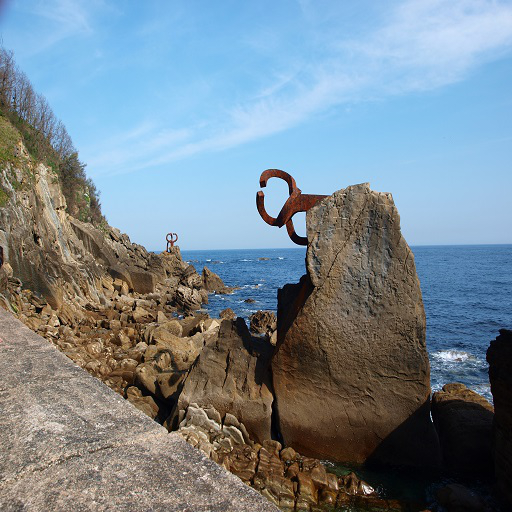
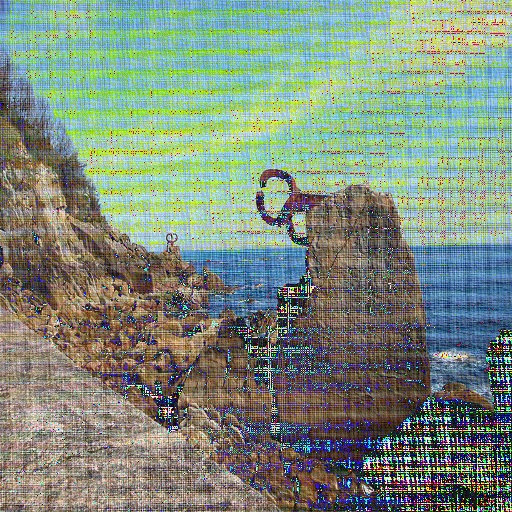
Implemented move blurring, tested it and used wiener filter

diff --git a/main.py b/main.py
@@ -15,13 +15,13 @@ def main():
     im = plb.imread("P1012538.JPG")
 
     #Computing PSF
-    h = convolves.gaussian(5, 11, 11)
+    h = convolves.motion_blur(20, 45)
 
     #Convolve images
     con=convolves.convolution_and_noise_rgb(im,h, np.zeros((2,2)))
 
     #Deblurring
-    filt = filters.inverse_filter_rgb(con, h)
+    filt = filters.wiener_filter_rgb(con, h)
 
     #Show images
     plt.figure()
@@ -41,6 +41,15 @@ def main():
 
     #Saving deblurred images
     plt.imsave("inverse_filter/P1012538_inverse.jpg", np.uint8(filt))
-
+def test():
+    h1=convolves.motion_blur(4, 0)
+    h2=convolves.motion_blur(4,45)
+    h3=convolves.motion_blur(4,90)
+    print 'h1='
+    print h1
+    print 'h2='
+    print h2
+    print 'h3='
+    print h3
 if __name__ == "__main__":
-    main()
+   main()

diff --git a/convolves.py b/convolves.py
@@ -30,9 +30,20 @@ def gaussian(sigma,n,m):
     f=np.array([[gauss(i,j,sigma) for j in range (-(m-1)//2, (m+1)//2)] for i in range(-(n-1)//2, (n+1)//2)])
     f = f / np.sum(f)
     return f
-
-def motion_blur(len, deg):
-    print 'TODO!!!'
+#ang can be only 0, 45 or 90
+def motion_blur(len, ang):
+    result=np.zeros((len+len-1, len+len-1), dtype=float)
+    if(ang==0):
+        for i in range(len-1, len+len-1):
+            result[len-1, i]=1.0
+    elif (ang==45):
+        for i in range(len-1, len+len-1):
+            result[len+len-2-i, i]=1.0
+    elif (ang==90):
+        for i in range(0, len):
+            result[i, len-1]=1.0
+    result/=np.sum(result)
+    return result
 # If I need code below, I'll restore they
 
 # def step_filter(gamma):

diff --git a/filters.py b/filters.py
@@ -51,14 +51,14 @@ def wiener_filter(g, h,k):
     f=f[0:width_g,0:height_g]
     return f
 
-def wiener_filter_rgb(g,h):
+def wiener_filter_rgb(g,h,k=np.zeros((2,2))):
     g_r=g[:,:,0]
     g_g=g[:,:,1]
     g_b=g[:,:,2]
     result=np.zeros(g.shape)
-    result[:, :, 0] =  wiener_filter(g_r, h)
-    result[:, :, 1] =  wiener_filter(g_g, h)
-    result[:, :, 2] =  wiener_filter(g_b, h)
+    result[:, :, 0] =  wiener_filter(g_r, h, k)
+    result[:, :, 1] =  wiener_filter(g_g, h,k)
+    result[:, :, 2] =  wiener_filter(g_b, h,k)
     return result
 
 def tickhonov_regularization(g,h):
